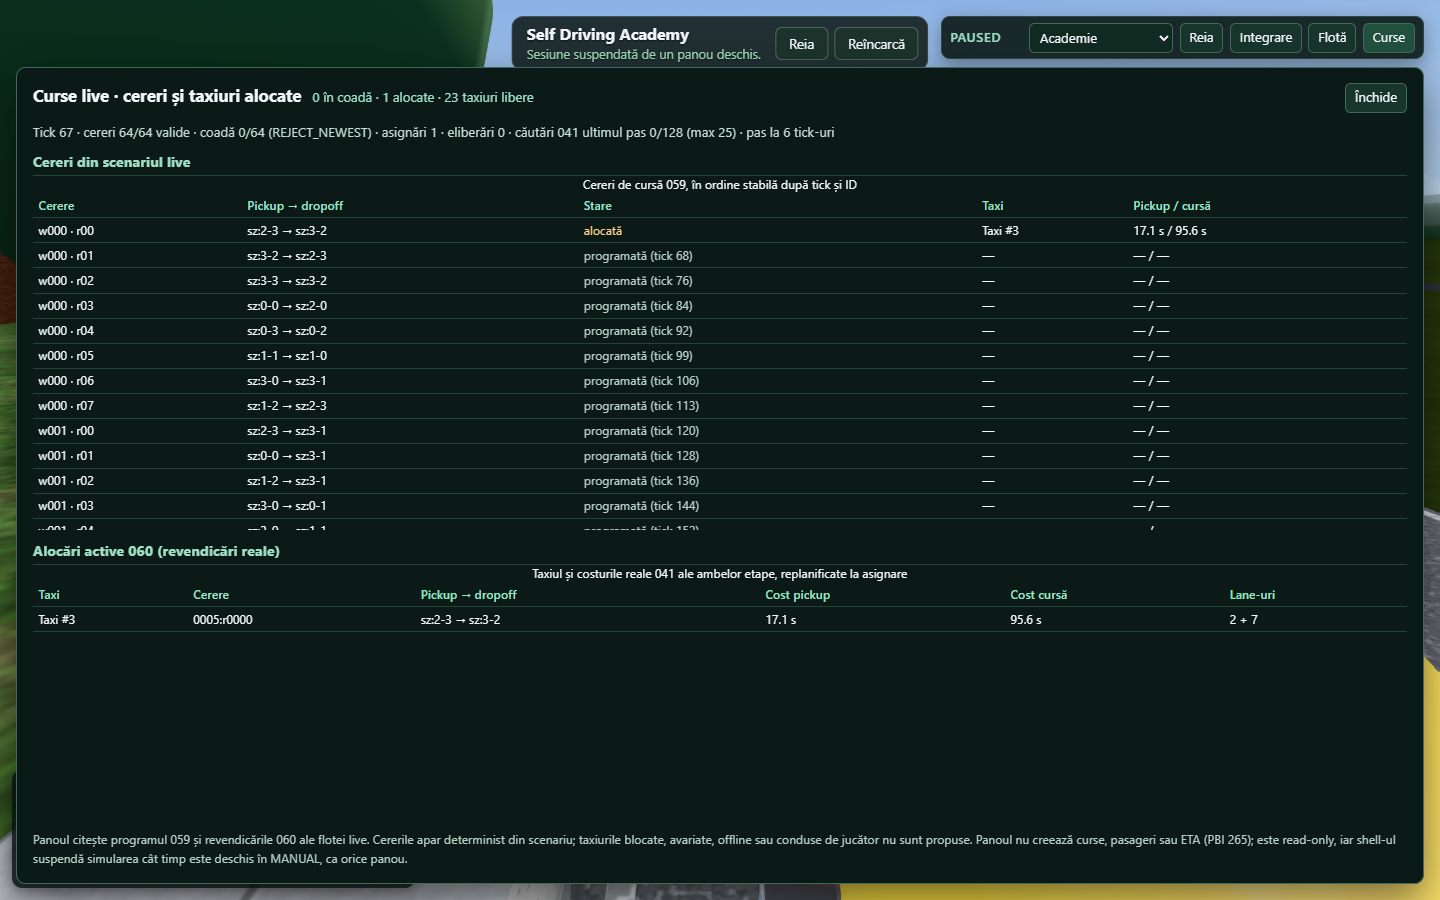
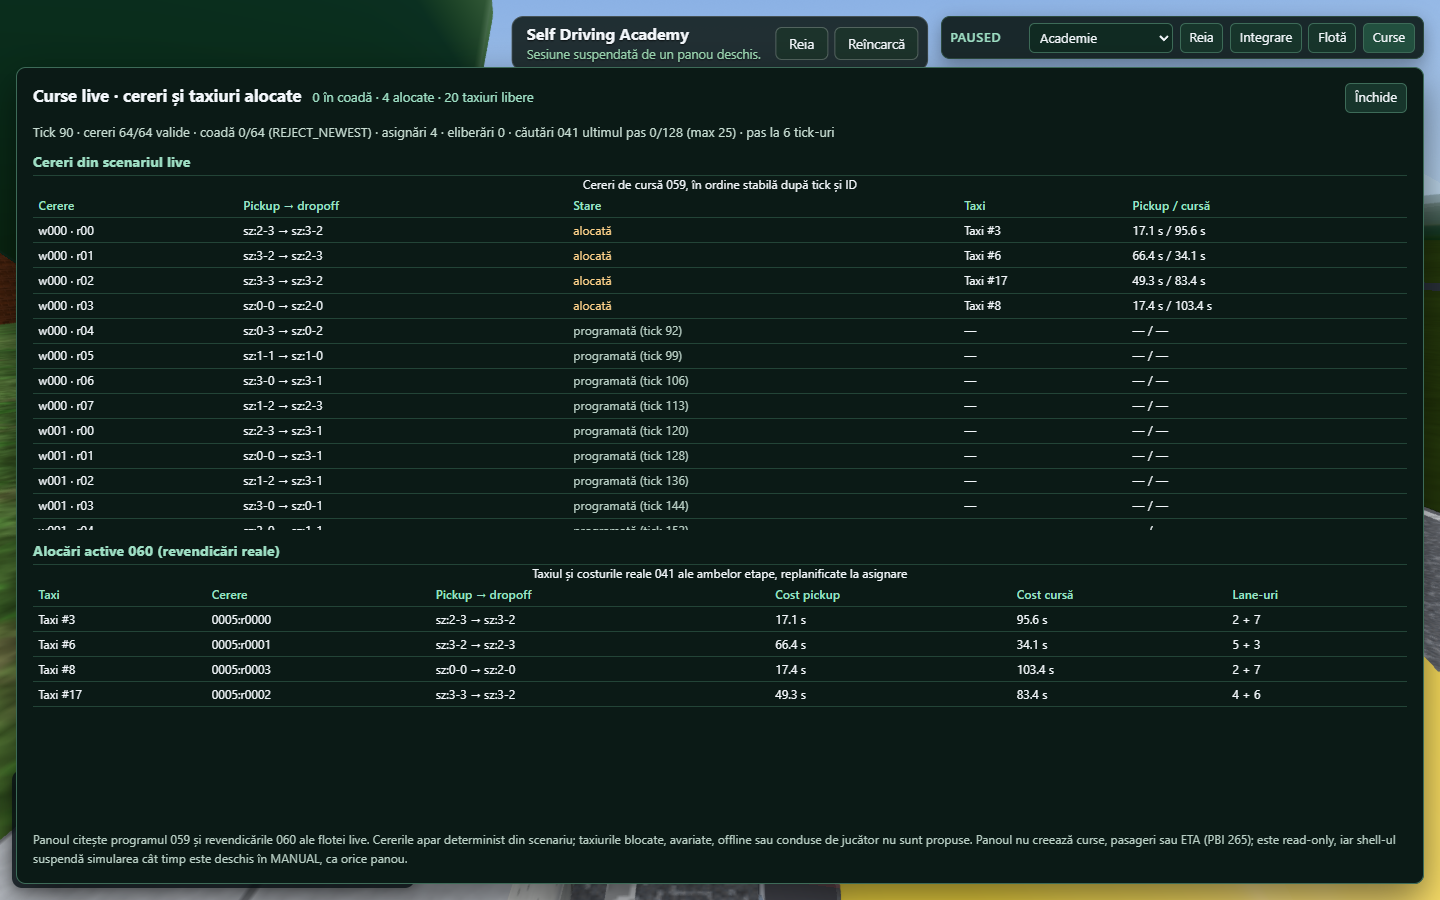
test(rides): capture four live claims in the browser probe (PBI 264)

diff --git a/Docs/Evidence/264-live-rides/browser.md b/Docs/Evidence/264-live-rides/browser.md
@@ -1,7 +1,7 @@
 # 264 — proba de browser a curselor live
 
 Generată de `npm run ride:live:probe`; Chromium 157.0.8103.51, backend WEBGL2,
-viewport 1440x900, tick 61–84.
+viewport 1440x900, tick 85–102.
 
 Secvența reală: start → cereri 059 vizibile în panoul `Curse` → taxiuri alocate 060 → preluarea
 explicită a unui taxi alocat din panoul `Flotă` (263) → eliberare `PLAYER_TAKEOVER` și excludere.
@@ -12,11 +12,11 @@ Capturi: [screenshots/01-rides-panel.png](screenshots/01-rides-panel.png), [scre
 - `fleet-24-taxis`: PASS — 24 live taxis
 - `requests-visible`: PASS — 64 scenario requests
 - `real-zones`: PASS — pickup/dropoff use real 032 service zones
-- `assignments-visible`: PASS — 1 active claims
+- `assignments-visible`: PASS — 4 active claims
 - `both-legs-visible`: PASS — each claim carries real pickup and trip lanes
-- `unique-claims`: PASS — 1 unique request/taxi claims
+- `unique-claims`: PASS — 4 unique request/taxi claims
 - `queue-bounded`: PASS — 0/64 pending
-- `panel-rows`: PASS — 64 request rows, 1 assignment rows
+- `panel-rows`: PASS — 64 request rows, 4 assignment rows
 - `player-release`: PASS — 1 PLAYER_TAKEOVER release(s)
 - `player-excluded`: PASS — id-v1:7:vehicle13:v3:city:fleet4:TAXI4:0003 is player-driven and unassigned
 - `no-page-errors`: PASS — 0 page errors
